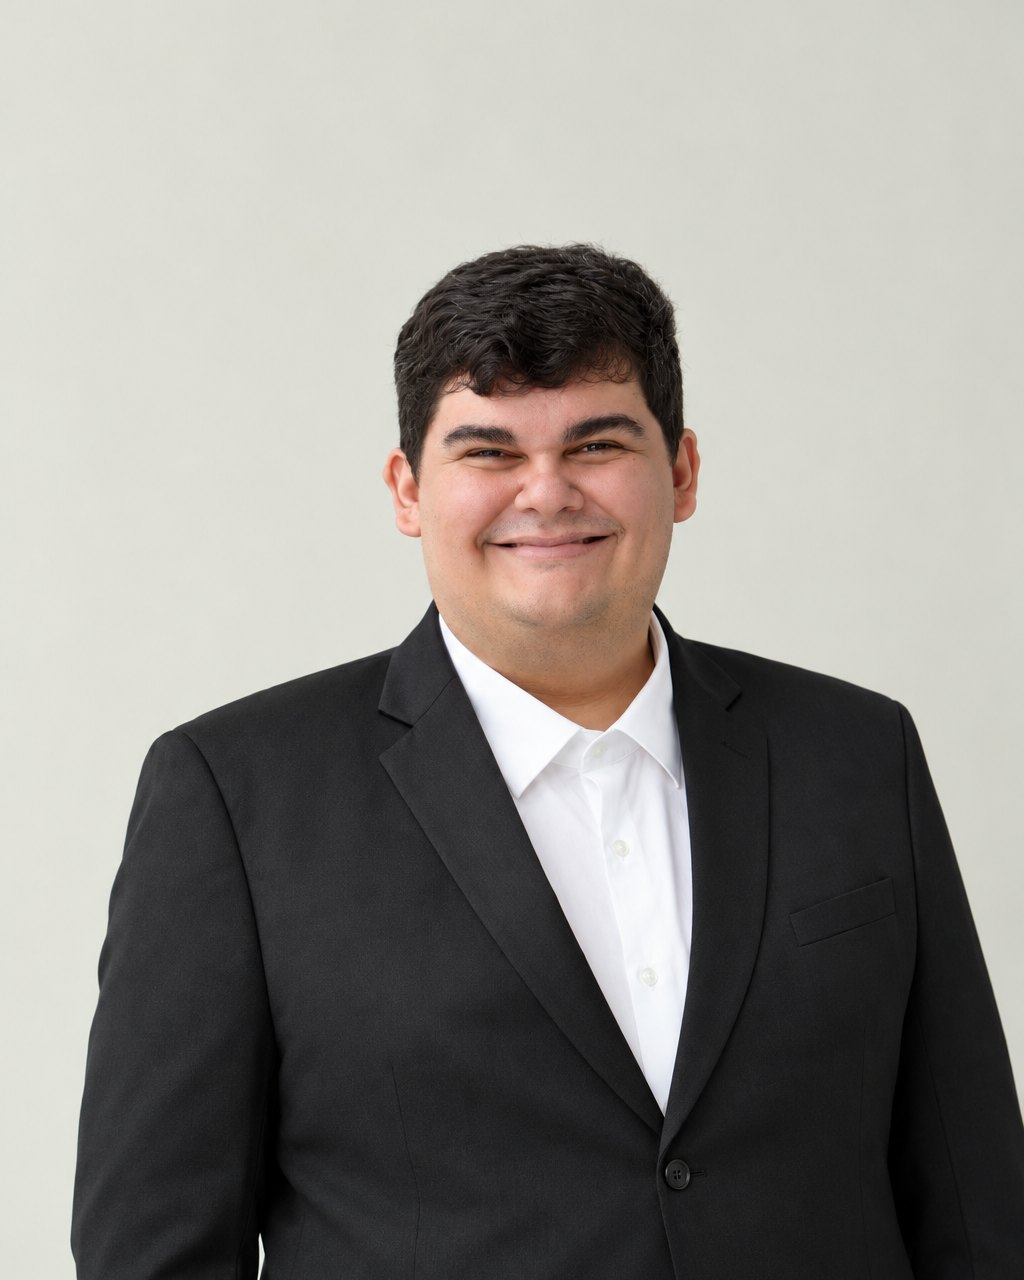
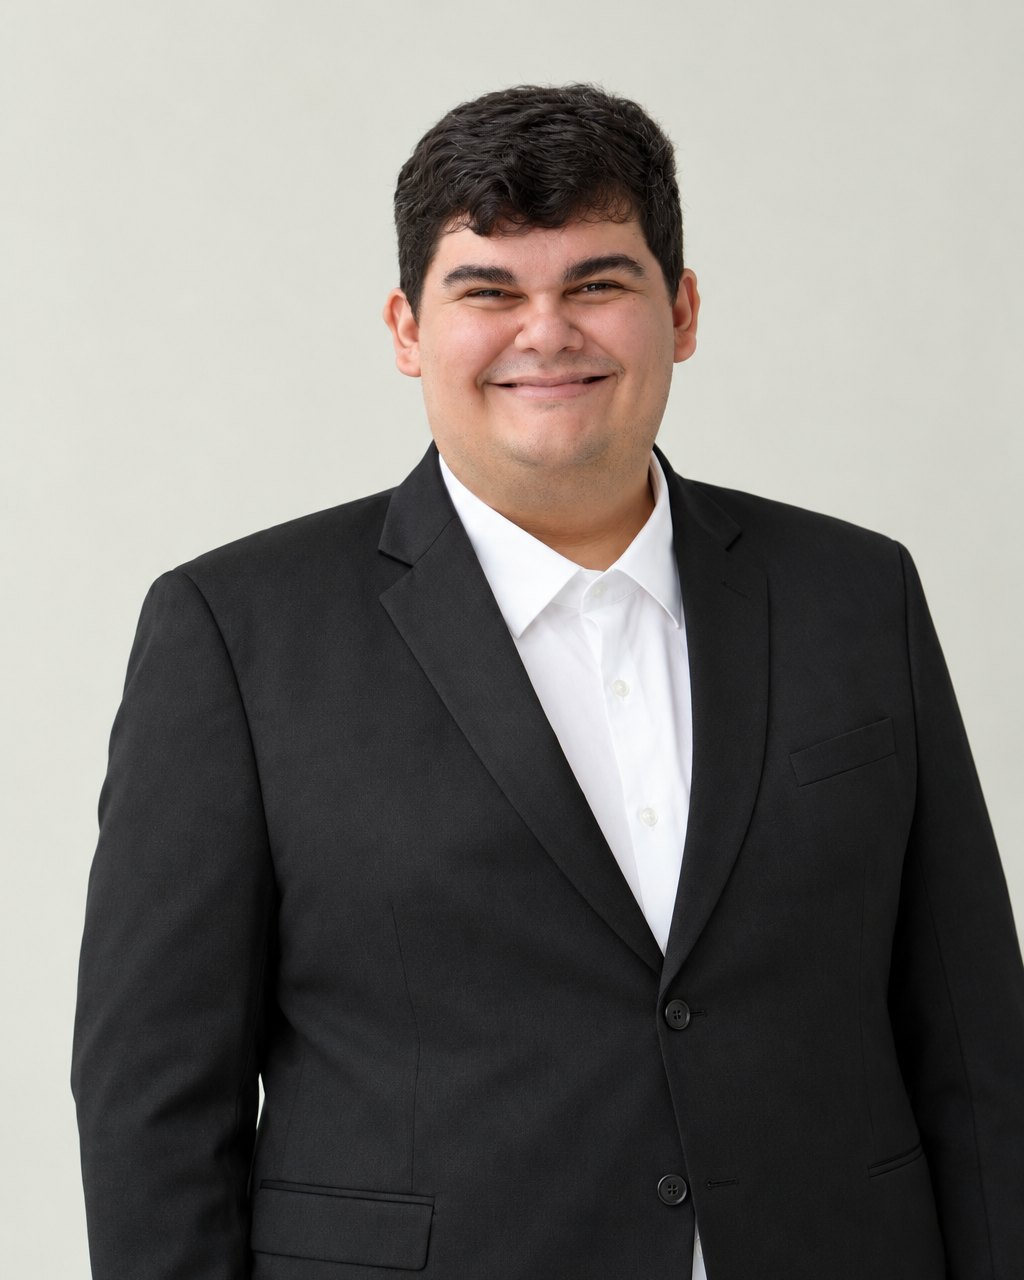
Hero: foto com a cabeça mais alta (menos espaço em cima)

diff --git a/index.html b/index.html
@@ -51,7 +51,7 @@
         </div>
         <div class="hero-photo-col">
           <div class="hero-photo-frame">
-            <img src="img/photos/hero.jpg" alt="Pedro Henrique Fonseca, advogado tributarista e palestrante">
+            <img src="img/photos/hero.jpg?v=2" alt="Pedro Henrique Fonseca, advogado tributarista e palestrante">
             <div class="duo"></div>
           </div>
           <div class="hero-trust-card">
